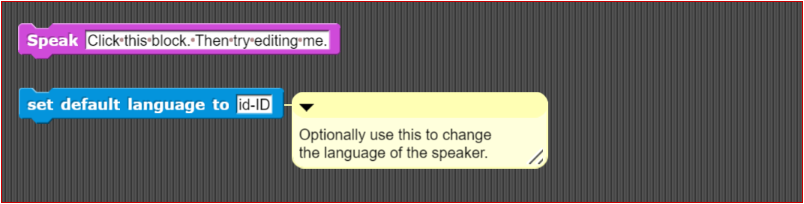
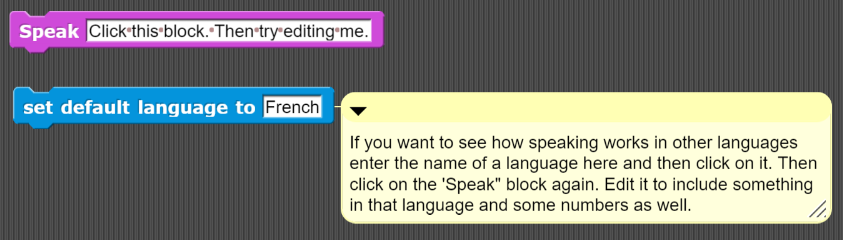
Made the first examples in chapter 1 have clearer instructions.

diff --git a/AI-Teacher-Guide/chapter-1.html b/AI-Teacher-Guide/chapter-1.html
@@ -75,7 +75,7 @@ The Mary TTS (text-to-speech) blocks below work in any browser.)</p>
 
 <figure class = "snap-iframe"
         id = "simple speak block"
-        container_style = "width: 800px; height: 200px" 
+        container_style = "width: 800px; height: 250px" 
         caption = "A simple block for speaking text. TRY IT">
 </figure>
 
